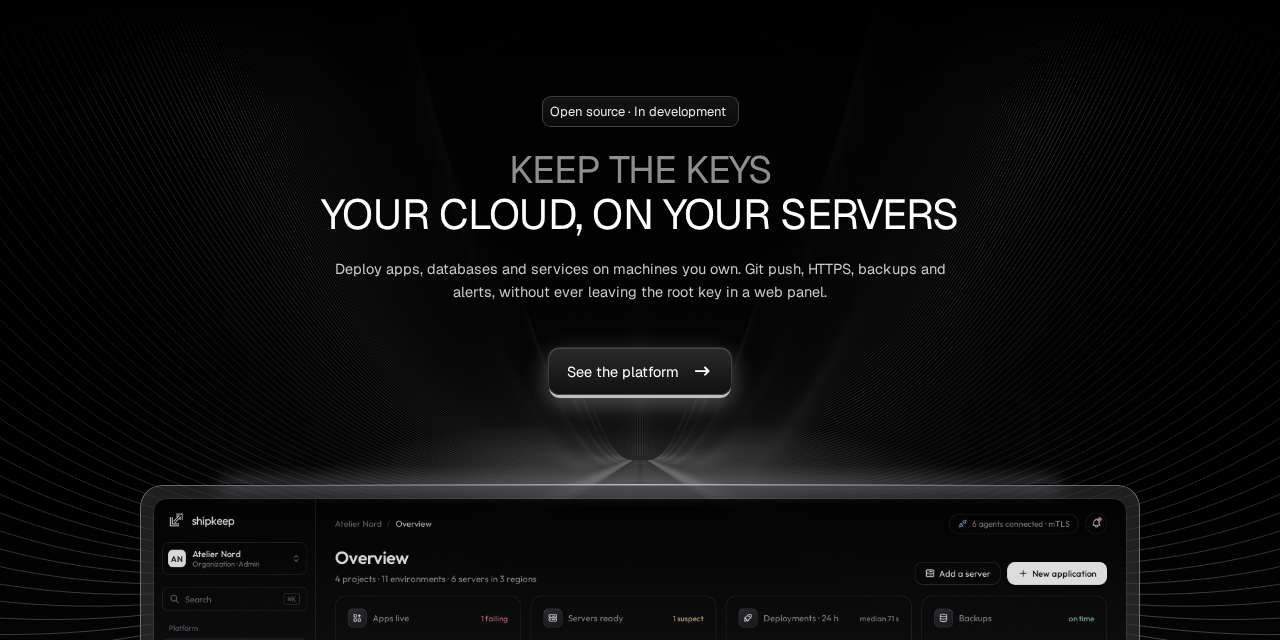
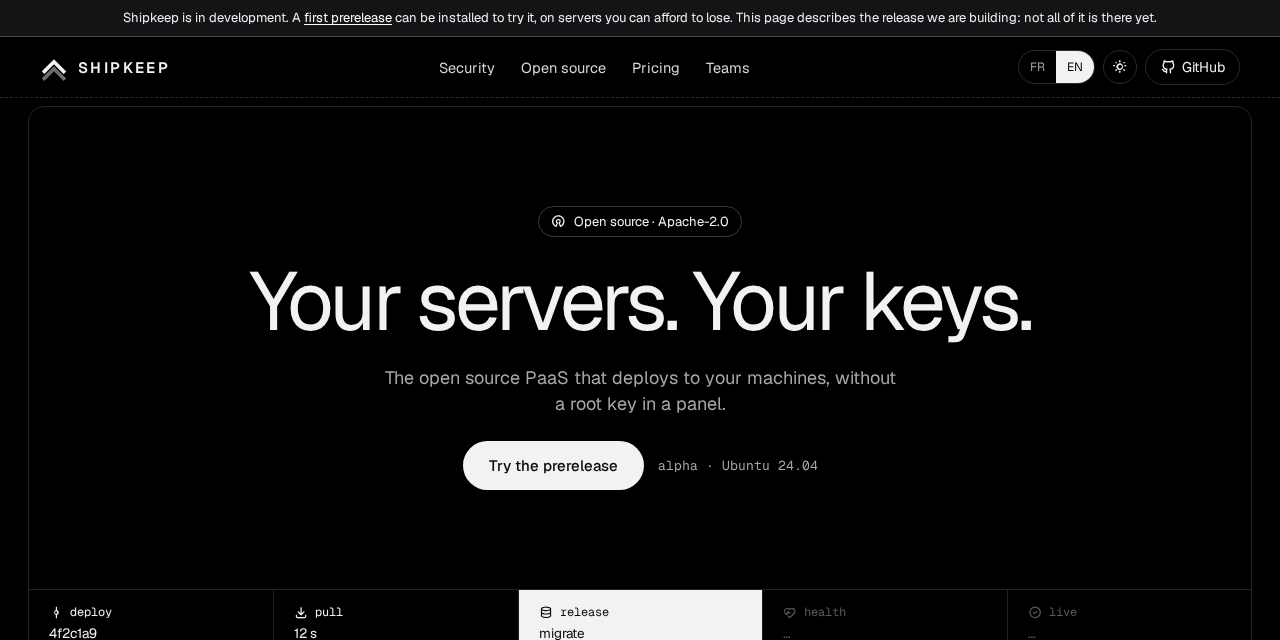
fix(web): the chevron mark everywhere the old arrow still showed
The web UI's logo (sidebar and public pages) and its favicons (SVG,
ICO, touch icon) drew the old arrow while the landing page shows the
two chevrons of the Cadre design. They now use the landing's mark and
wordmark. The README banner and the social preview are rendered again
from the current landing page.

diff --git a/apps/web/src/app/shell/logo.ts b/apps/web/src/app/shell/logo.ts
@@ -1,15 +1,31 @@
 import { ChangeDetectionStrategy, Component } from '@angular/core';
 
-/** The Shipkeep mark and wordmark from the brand kit. */
+/**
+ * The Shipkeep mark and wordmark, as the landing page draws them: two chevrons, the lower one
+ * fainter, and the name in spaced capitals.
+ */
 @Component({
   selector: 'sk-logo',
   changeDetection: ChangeDetectionStrategy.OnPush,
   template: `
     <svg aria-hidden="true" viewBox="0 0 32 32" class="block size-[26px] shrink-0">
-      <path d="M7 11V25H21M12 20L25 7M16 7H25V16" fill="none" stroke="#F2F2F3" stroke-width="5" />
-      <path d="M7 11V25H21M12 20L25 7M16 7H25V16" fill="none" stroke="#000" stroke-width="2" />
+      <path
+        d="M5 21 L16 10 L27 21"
+        fill="none"
+        stroke="#F2F2F3"
+        stroke-width="4.2"
+        stroke-linecap="square"
+      />
+      <path
+        d="M5 29 L16 18 L27 29"
+        fill="none"
+        stroke="#F2F2F3"
+        stroke-width="4.2"
+        stroke-linecap="square"
+        opacity="0.45"
+      />
     </svg>
-    <span class="text-[17px] tracking-tight text-ink">shipkeep</span>
+    <span class="text-[15px] font-semibold tracking-[0.16em] text-ink uppercase">Shipkeep</span>
   `,
   host: { class: 'inline-flex items-center gap-2.5' },
 })

diff --git a/apps/web/src/app/app.spec.ts b/apps/web/src/app/app.spec.ts
@@ -26,7 +26,7 @@ describe('App', () => {
     await TestBed.inject(Router).navigateByUrl('/auth/login');
     await fixture.whenStable();
     const compiled = fixture.nativeElement as HTMLElement;
-    expect(compiled.querySelector('header a')?.textContent).toContain('shipkeep');
+    expect(compiled.querySelector('header a')?.textContent).toContain('Shipkeep');
     expect(compiled.querySelector('h1')?.textContent).toContain('Welcome back');
     expect(compiled.querySelector('main')?.id).toBe('main-content');
   });

diff --git a/README.md b/README.md
@@ -1,5 +1,5 @@
 <p align="center">
-  <a href="https://shipkeep.vercel.app"><img src="docs/assets/readme-banner.jpg" alt="Shipkeep: keep the keys. Your cloud, on your servers." width="100%"></a>
+  <a href="https://shipkeep.vercel.app"><img src="docs/assets/readme-banner.jpg" alt="Shipkeep: your servers, your keys. The open source PaaS that deploys to your machines, without a root key in a panel." width="100%"></a>
 </p>
 
 <p align="center">
